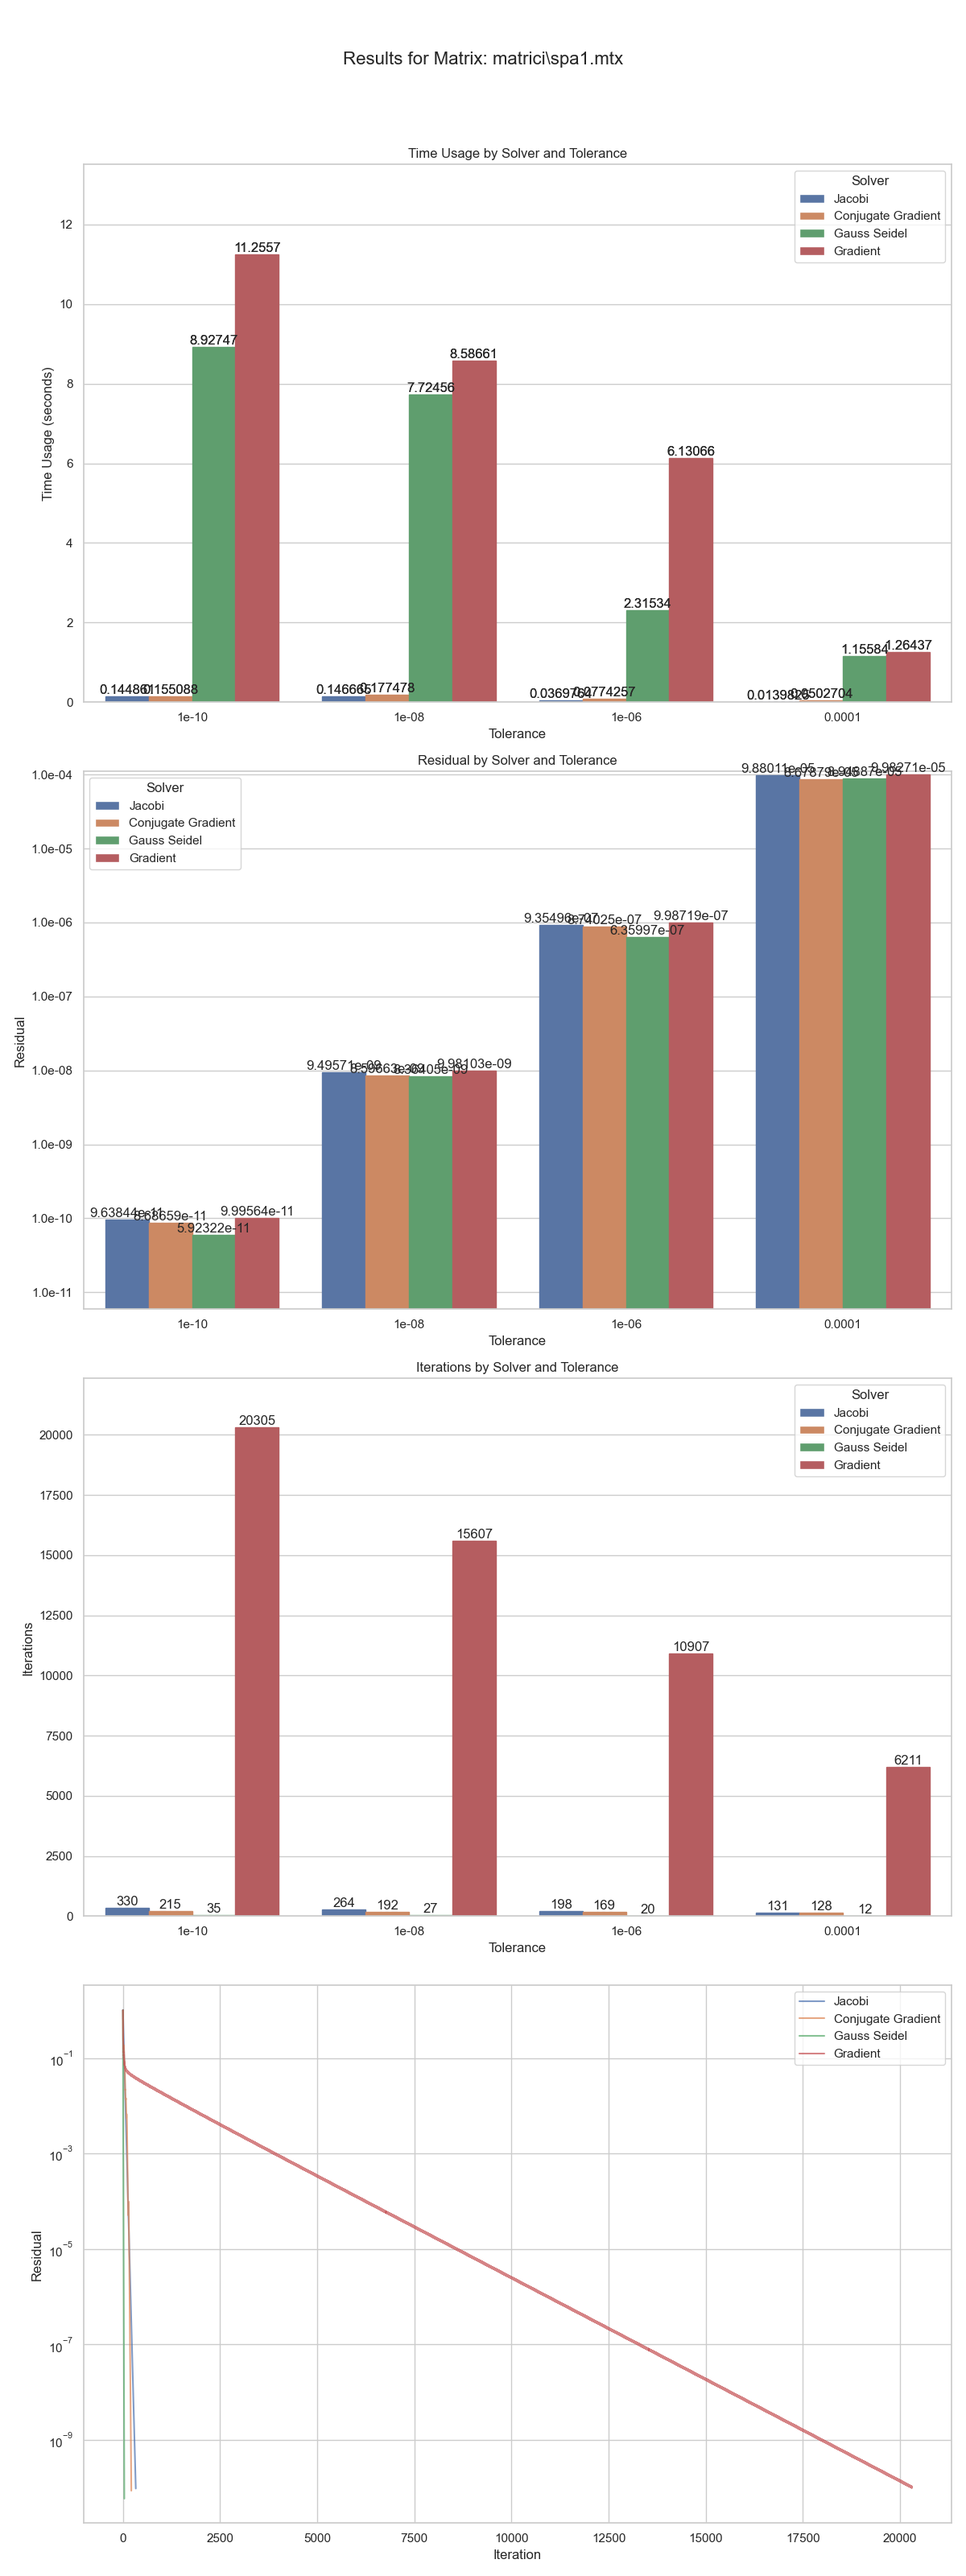
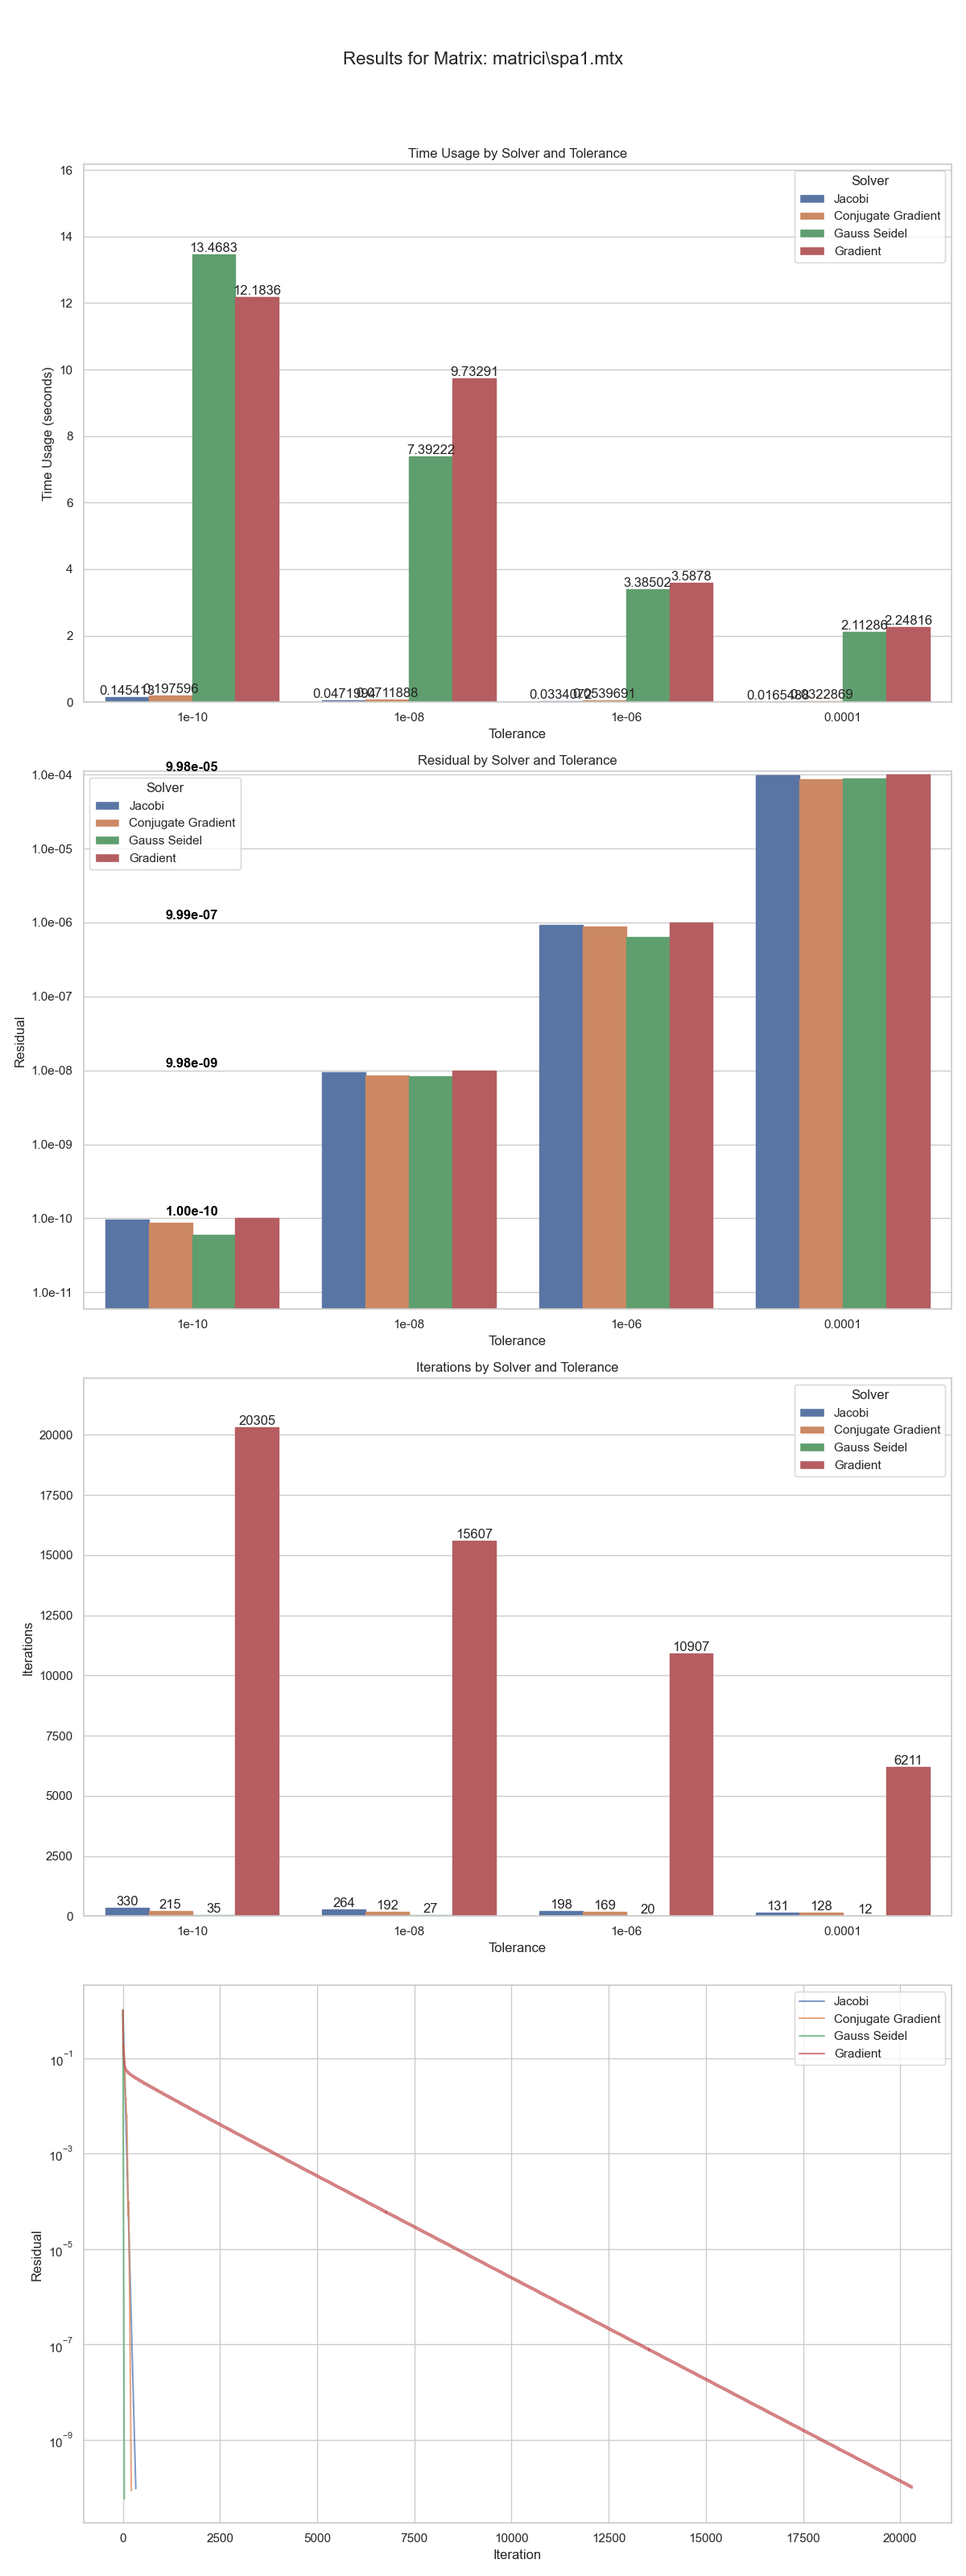
added gaus seidel method, to enhance time visualization chart

diff --git a/solver_runner.py b/solver_runner.py
@@ -102,13 +102,7 @@ def plot_results(df):
         axs[0].set_title('Time Usage by Solver and Tolerance')
         axs[0].set_ylabel('Time Usage (seconds)')
         axs[0].set_xlabel('Tolerance')
-        axs[0].set_ylim(0, max_time * 1.2)  # Set ylim slightly above max time for better visualization
-
-        for container in axs[0].containers:
-            axs[0].bar_label(container)
-
-        for patch in barplot.patches:
-            patch.set_edgecolor(patch.get_facecolor())
+        axs[0].set_ylim(0, max_time * 1.2)
 
         for container in axs[0].containers:
             axs[0].bar_label(container)
@@ -127,8 +121,13 @@ def plot_results(df):
         axs[1].set_ylim(min_residual * 0.1, max_residual * 1.1)
         axs[1].yaxis.set_major_formatter(plt.FuncFormatter(lambda x, _: f'{x:.1e}'))
 
-        for container in axs[1].containers:
-            axs[1].bar_label(container)
+        # Add labels only for the maximum residuals in each tolerance level
+        for tolerance, group in matrix_df.groupby('Tolerance'):
+            max_residual = group['Residual'].max()
+            max_index = group['Residual'].idxmax()
+            row = group.loc[max_index]
+            axs[1].text(row['Tolerance'], row['Residual'] + max_residual * 0.1, f'{row["Residual"]:.2e}', 
+                        color='black', ha='center', fontsize=12, weight='bold')
 
         for patch in barplot.patches:
             patch.set_edgecolor(patch.get_facecolor())
@@ -139,7 +138,7 @@ def plot_results(df):
         axs[2].set_title('Iterations by Solver and Tolerance')
         axs[2].set_ylabel('Iterations')
         axs[2].set_xlabel('Tolerance')
-        axs[2].set_ylim(0, max_iterations * 1.1)  # Set ylim slightly above max iterations for better visualization
+        axs[2].set_ylim(0, max_iterations * 1.1)
 
         for container in axs[2].containers:
             axs[2].bar_label(container)
@@ -151,17 +150,16 @@ def plot_results(df):
         tolerance_df = matrix_df[matrix_df['Tolerance'] == 1e-10]
 
         if not tolerance_df.empty:
-            # Iterate over each solver
             for solver_name in tolerance_df['Solver'].unique():
                 for _, row in tolerance_df[tolerance_df['Solver'] == solver_name].iterrows():
-                    residuals = np.array(row['List of residuals'])  # Convert to numpy array
+                    residuals = np.array(row['List of residuals'])
                     iterations = np.arange(1, len(residuals) + 1)
                     axs[3].plot(iterations, residuals, label=f'{solver_name}', alpha=0.7)
 
             axs[3].set_ylabel('Residual')
             axs[3].set_xlabel('Iteration')
             axs[3].set_yscale('log')
-            axs[3].legend(loc='upper right')  # Specify legend location
+            axs[3].legend(loc='upper right')
 
         plt.tight_layout(rect=[0, 0, 1, 0.96])
 
@@ -169,7 +167,6 @@ def plot_results(df):
         plot_path = os.path.join(RESULTS_DIR, f'{os.path.basename(matrix)}_results.png')
         plt.savefig(plot_path)
         plt.close(fig)
-    
 
 if __name__ == "__main__":
     results = run_matrix_solvers()
